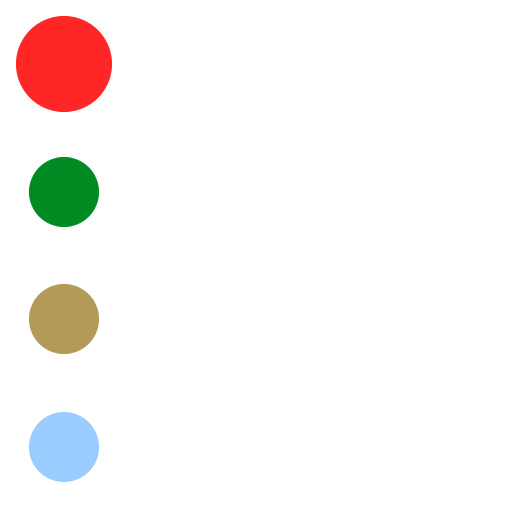
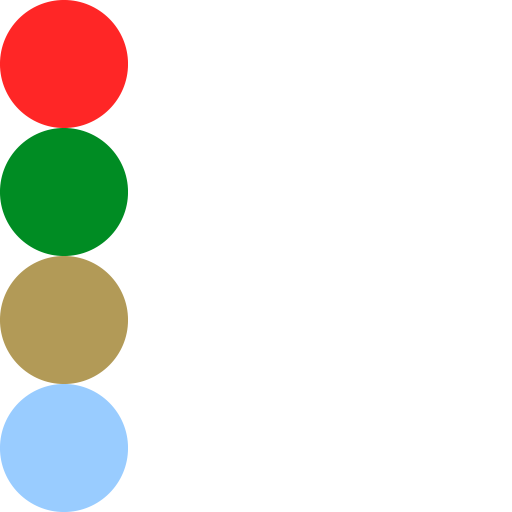
Make planets arbitrary sizes.

Changed region(s): [[0.0, 0.0, 0.25, 1.0]]

diff --git a/src/entities.go b/src/entities.go
@@ -36,13 +36,18 @@ type PlanetaryBody struct {
 	Temperature          int32
 	State                PlanetaryState
 	Radius               float32
+	Scale                float32
 }
 
 func NewSun() *PlanetaryBody {
+	var (
+		scale  float32 = 1.0
+		length float32 = 128.0 / PxPerUnit * scale
+	)
 	body := &PlanetaryBody{
 		AnimatingEntity: twodee.NewAnimatingEntity(
 			0, 0,
-			128.0/PxPerUnit, 128.0/PxPerUnit,
+			length, length,
 			0,
 			twodee.Step10Hz,
 			[]int{0},
@@ -52,17 +57,22 @@ func NewSun() *PlanetaryBody {
 		MaxPopulation:        0.0,
 		PopulationGrowthRate: 0.0,
 		Temperature:          27000000,
-		Radius:               0.5,
+		Radius:               length / 2.0,
+		Scale:                scale,
 	}
 	body.SetState(Sun)
 	return body
 }
 
 func NewPlanet(x, y float32) *PlanetaryBody {
+	var (
+		scale  float32 = float32(math.Min(0.9, math.Max(0.3, rand.Float64())))
+		length float32 = 128.0 / PxPerUnit * scale
+	)
 	body := &PlanetaryBody{
 		AnimatingEntity: twodee.NewAnimatingEntity(
 			x, y,
-			128.0/PxPerUnit, 128.0/PxPerUnit,
+			length, length,
 			0,
 			twodee.Step10Hz,
 			[]int{0},
@@ -73,7 +83,8 @@ func NewPlanet(x, y float32) *PlanetaryBody {
 		MaxPopulation:        0.0,
 		PopulationGrowthRate: 0.0001,
 		Temperature:          72,
-		Radius:               0.5,
+		Radius:               length / 2.0,
+		Scale:                scale,
 	}
 	body.SetState(Fertile)
 	body.MaxPopulation = body.Mass * 1000
@@ -194,5 +205,5 @@ func (p *PlanetaryBody) GetTemperature() int32 {
 }
 
 func (p *PlanetaryBody) CollidesWith(other *PlanetaryBody) bool {
-	return p.Pos().DistanceTo(other.Pos()) < p.Radius+other.Radius
+	return p.Pos().DistanceTo(other.Pos()) < (p.Radius+other.Radius)*0.8
 }

diff --git a/src/game_layer.go b/src/game_layer.go
@@ -19,7 +19,7 @@ type GameLayer struct {
 }
 
 func NewGameLayer(app *Application) (layer *GameLayer, err error) {
-	var bounds = twodee.Rect(-28, -21, 28, 21)
+	var bounds = twodee.Rect(-32, -24, 32, 24)
 	layer = &GameLayer{
 		App:    app,
 		Bounds: bounds,
@@ -38,7 +38,7 @@ func NewGameLayer(app *Application) (layer *GameLayer, err error) {
 	if layer.TileRenderer, err = twodee.NewTileRenderer(layer.Bounds, app.WinBounds, tilem); err != nil {
 		return
 	}
-	if layer.GlowRenderer, err = NewGlowRenderer(192, 128, 8, 0.3, 1.0); err != nil {
+	if layer.GlowRenderer, err = NewGlowRenderer(192, 128, 6, 0.3, 1.0); err != nil {
 		return
 	}
 	if layer.Starmap, err = LoadMap("assets/starmap.tmx"); err != nil {
@@ -74,7 +74,7 @@ func (l *GameLayer) Render() {
 	l.GlowRenderer.DisableOutput()
 	for _, p := range l.Sim.Planets {
 		pos = p.Pos()
-		l.TileRenderer.Draw(p.Frame(), pos.X, pos.Y, 0, false, false)
+		l.TileRenderer.DrawScaled(p.Frame(), pos.X, pos.Y, 0, p.Scale, false, false)
 	}
 	l.GlowRenderer.EnableOutput()
 	l.TileRenderer.Unbind()
@@ -99,7 +99,7 @@ func (l *GameLayer) Render() {
 	l.TileRenderer.Draw(l.Sim.Sun.Frame(), pos.X, pos.Y, 0, false, false)
 	for _, p := range l.Sim.Planets {
 		pos = p.Pos()
-		l.TileRenderer.Draw(p.Frame(), pos.X, pos.Y, 0, false, false)
+		l.TileRenderer.DrawScaled(p.Frame(), pos.X, pos.Y, 0, p.Scale, false, false)
 	}
 	l.TileRenderer.Unbind()
 

diff --git a/src/hud_layer.go b/src/hud_layer.go
@@ -76,18 +76,21 @@ func (l *HudLayer) Render() {
 			textCache = twodee.NewTextCache(l.regularFont)
 			l.cache[p] = textCache
 		}
+		pos := planet.Pos()
 		textCache.SetText(strconv.Itoa(planet.GetPopulation()))
 		texture = textCache.Texture
 		if texture != nil {
-			pt := l.game.WorldToScreenCoords(planet.Pos())
-			l.text.Draw(texture, pt.X+24, pt.Y-72)
+			adjust := twodee.Pt(planet.Radius + 0.1, -planet.Radius - 1.75)
+			pt := l.game.WorldToScreenCoords(pos.Add(adjust))
+			l.text.Draw(texture, pt.X, pt.Y)
 		}
 		//Display Individual Planet Temperatures
 		textCache.SetText(strconv.Itoa(int(planet.GetTemperature())) + "°F")
 		texture = textCache.Texture
 		if texture != nil {
-			pt := l.game.WorldToScreenCoords(planet.Pos())
-			l.text.Draw(texture, pt.X, pt.Y+48)
+			adjust := twodee.Pt(planet.Radius + 0.1, planet.Radius)
+			pt := l.game.WorldToScreenCoords(pos.Add(adjust))
+			l.text.Draw(texture, pt.X, pt.Y)
 		}
 	}
 
